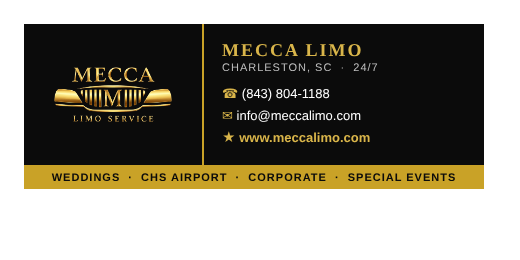
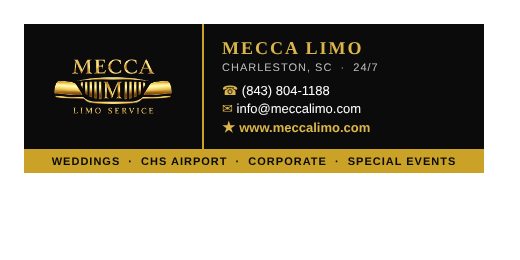
Make luxury signature Outlook-safe (tables, bgcolor, inline styles)
Claude-Session: https://claude.ai/code/session_01JdPg1MbCrDmBX5Ewbm6g3w

Changed region(s): [[0.0308, 0.3077, 0.9538, 0.7385], [0.0923, 0.2154, 0.3385, 0.4923], [0.4308, 0.1538, 0.7077, 0.2154]]

diff --git a/meccalimo-site/email-signature/signature-luxury.html b/meccalimo-site/email-signature/signature-luxury.html
@@ -1,26 +1,24 @@
 <!doctype html>
 <html><head><meta charset="utf-8"><title>Mecca Limo Signature</title></head>
 <body style="background:#ffffff;padding:24px;margin:0">
-<!-- Select from the black box to the gold line under it, copy, and paste into Outlook > Settings > Signature -->
-<table cellpadding="0" cellspacing="0" border="0" width="460" style="width:460px;font-family:Georgia,'Times New Roman',serif;border-collapse:collapse">
+<!-- Outlook-safe: tables + bgcolor + inline styles only. Select all, copy, paste into Outlook > Settings > Signature -->
+<table cellpadding="0" cellspacing="0" border="0" width="460" style="width:460px;border-collapse:collapse;mso-table-lspace:0pt;mso-table-rspace:0pt">
   <tr>
-    <td bgcolor="#0b0b0b" width="150" align="center" valign="middle" style="background:#0b0b0b;width:150px;padding:18px 14px;border-right:2px solid #c9a227">
-      <a href="https://www.meccalimo.com"><img src="https://www.meccalimo.com/wp-content/uploads/2026/10/mecca-limo-logo-gold.png" width="120" alt="Mecca Limo" style="display:block;border:0;width:120px;height:auto"></a>
+    <td bgcolor="#0b0b0b" width="150" align="center" valign="middle" style="background-color:#0b0b0b;width:150px;padding:18px 14px;border-right:2px solid #c9a227">
+      <a href="https://www.meccalimo.com"><img src="https://www.meccalimo.com/wp-content/uploads/2026/10/mecca-limo-logo-gold.png" width="120" height="57" alt="Mecca Limo" border="0" style="display:block;border:0;width:120px;height:57px"></a>
     </td>
-    <td bgcolor="#0b0b0b" valign="middle" style="background:#0b0b0b;padding:16px 18px">
-      <div style="font-size:18px;color:#d9b54a;letter-spacing:2px;font-weight:bold">MECCA LIMO</div>
-      <div style="font-family:Arial,Helvetica,sans-serif;font-size:11px;color:#bfbfbf;letter-spacing:1px;padding-bottom:10px">CHARLESTON, SC &nbsp;·&nbsp; 24/7</div>
-      <div style="font-family:Arial,Helvetica,sans-serif;font-size:13px;line-height:1.7">
-        <span style="color:#d9b54a">&#9742;</span>&nbsp;<a href="tel:+18438041188" style="color:#ffffff;text-decoration:none">(843) 804-1188</a><br>
-        <span style="color:#d9b54a">&#9993;</span>&nbsp;<a href="mailto:info@meccalimo.com" style="color:#ffffff;text-decoration:none">info@meccalimo.com</a><br>
-        <span style="color:#d9b54a">&#9733;</span>&nbsp;<a href="https://www.meccalimo.com" style="color:#d9b54a;text-decoration:none;font-weight:bold">www.meccalimo.com</a>
-      </div>
+    <td bgcolor="#0b0b0b" valign="middle" style="background-color:#0b0b0b;padding:14px 18px">
+      <table cellpadding="0" cellspacing="0" border="0" style="border-collapse:collapse">
+        <tr><td style="font-family:Georgia,'Times New Roman',serif;font-size:18px;font-weight:bold;color:#d9b54a;letter-spacing:2px;padding:0 0 2px 0">MECCA LIMO</td></tr>
+        <tr><td style="font-family:Arial,Helvetica,sans-serif;font-size:11px;color:#bfbfbf;letter-spacing:1px;padding:0 0 10px 0">CHARLESTON, SC &nbsp;&middot;&nbsp; 24/7</td></tr>
+        <tr><td style="font-family:Arial,Helvetica,sans-serif;font-size:13px;color:#ffffff;padding:0 0 3px 0"><span style="color:#d9b54a">&#9742;</span>&nbsp;<a href="tel:+18438041188" style="color:#ffffff;text-decoration:none"><span style="color:#ffffff">(843) 804-1188</span></a></td></tr>
+        <tr><td style="font-family:Arial,Helvetica,sans-serif;font-size:13px;color:#ffffff;padding:0 0 3px 0"><span style="color:#d9b54a">&#9993;</span>&nbsp;<a href="mailto:info@meccalimo.com" style="color:#ffffff;text-decoration:none"><span style="color:#ffffff">info@meccalimo.com</span></a></td></tr>
+        <tr><td style="font-family:Arial,Helvetica,sans-serif;font-size:13px;font-weight:bold;padding:0"><span style="color:#d9b54a">&#9733;</span>&nbsp;<a href="https://www.meccalimo.com" style="color:#d9b54a;text-decoration:none"><span style="color:#d9b54a">www.meccalimo.com</span></a></td></tr>
+      </table>
     </td>
   </tr>
   <tr>
-    <td colspan="2" bgcolor="#c9a227" style="background:#c9a227;padding:6px 18px;font-family:Arial,Helvetica,sans-serif;font-size:11px;color:#0b0b0b;letter-spacing:1px;font-weight:bold" align="center">
-      WEDDINGS &nbsp;·&nbsp; CHS AIRPORT &nbsp;·&nbsp; CORPORATE &nbsp;·&nbsp; SPECIAL EVENTS
-    </td>
+    <td colspan="2" bgcolor="#c9a227" align="center" style="background-color:#c9a227;padding:6px 18px;font-family:Arial,Helvetica,sans-serif;font-size:11px;font-weight:bold;color:#0b0b0b;letter-spacing:1px">WEDDINGS &nbsp;&middot;&nbsp; CHS AIRPORT &nbsp;&middot;&nbsp; CORPORATE &nbsp;&middot;&nbsp; SPECIAL EVENTS</td>
   </tr>
 </table>
 </body></html>
